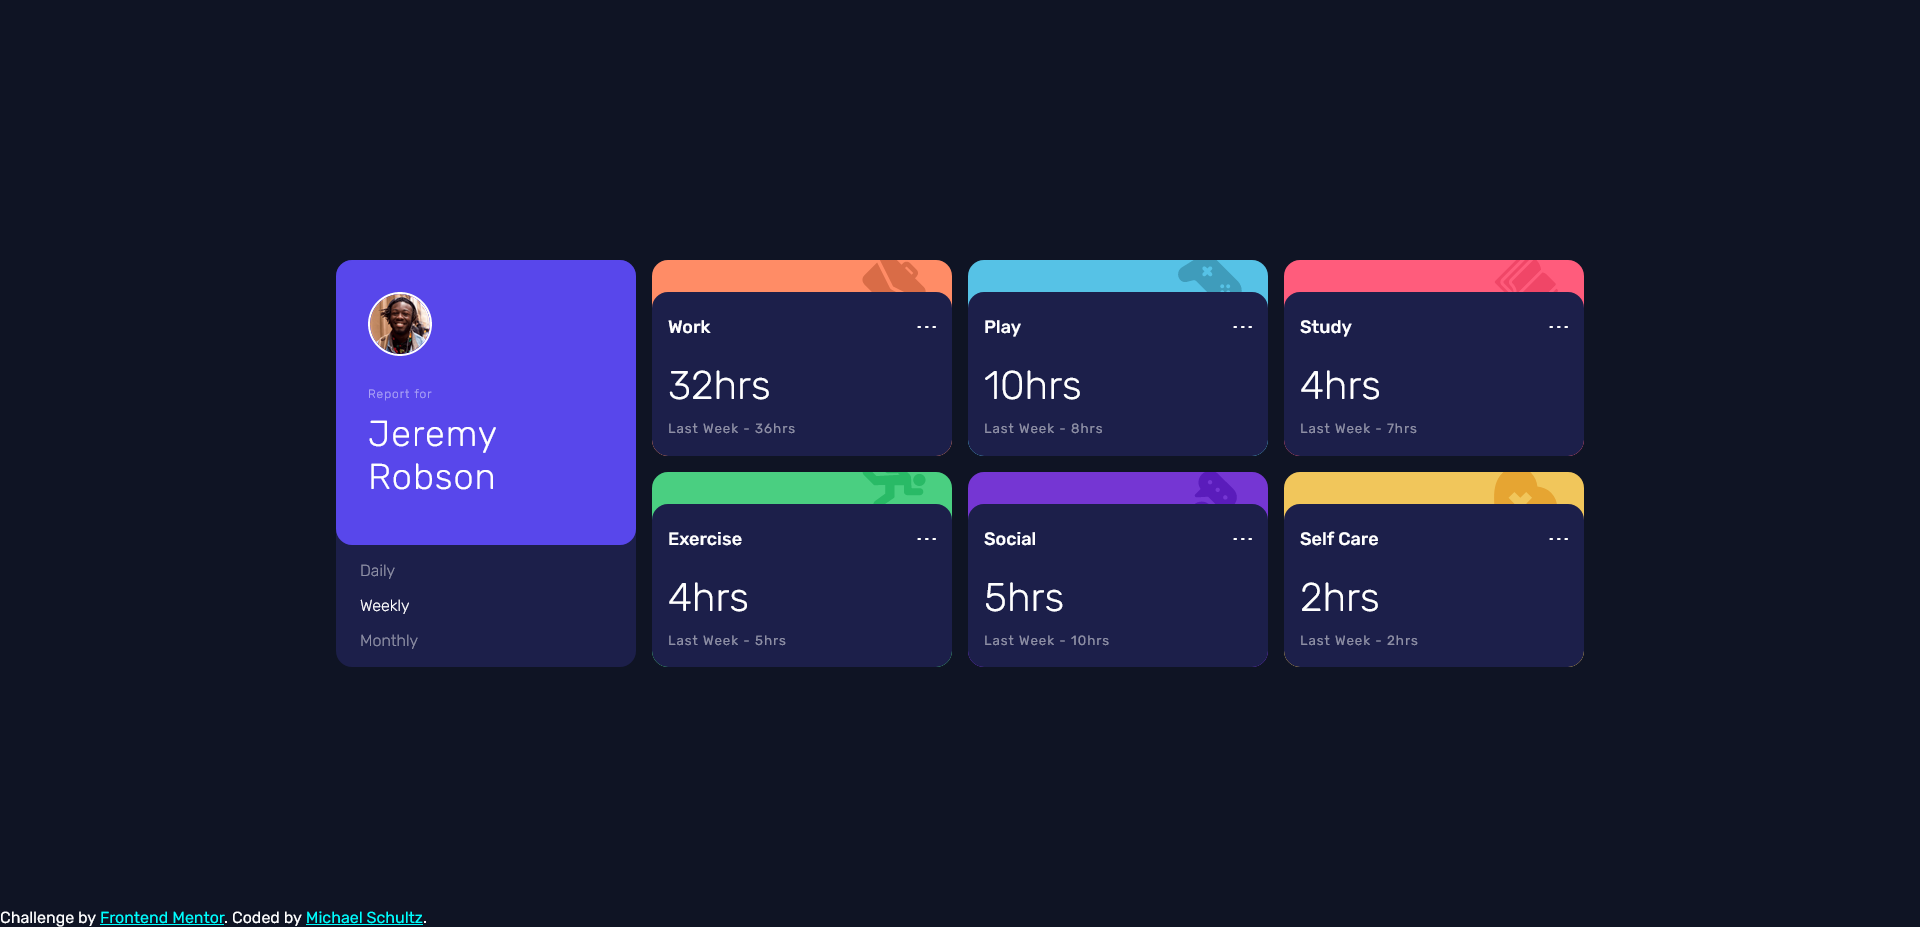
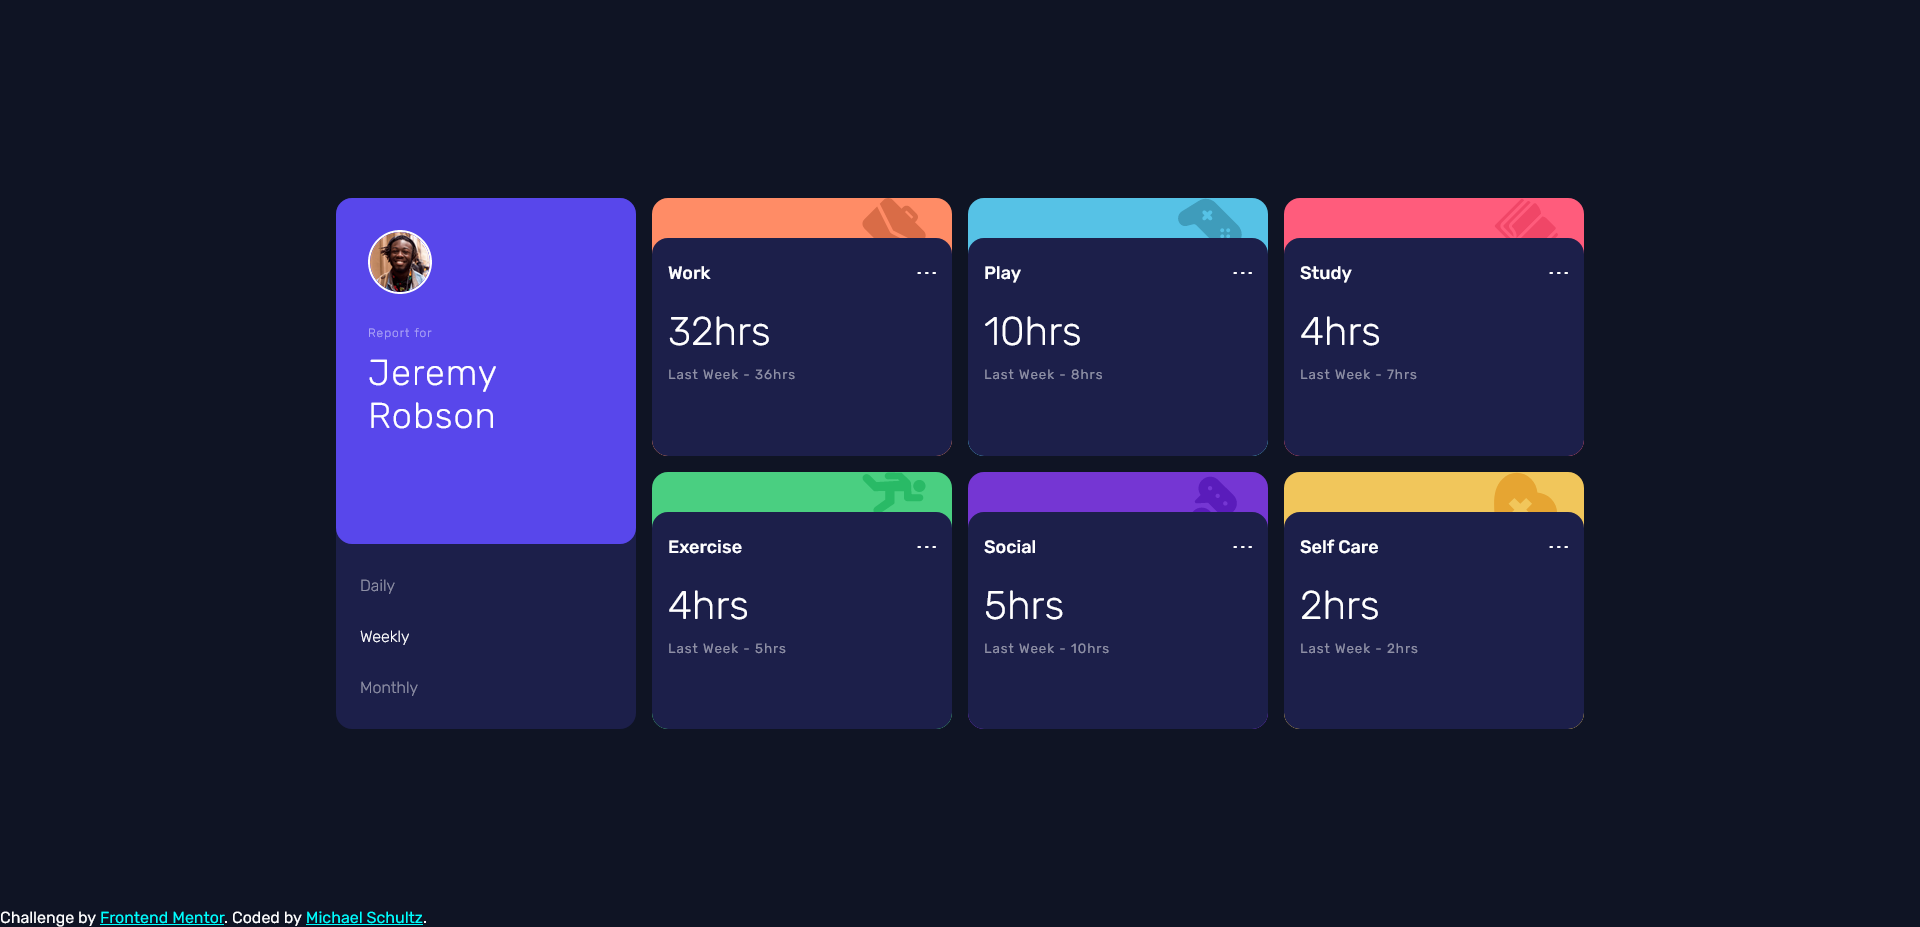
added live stie URL to readme and updated screenshot

diff --git a/README.md b/README.md
@@ -25,7 +25,7 @@ This is a solution to the [Time tracking dashboard challenge on Frontend Mentor]
 ### Links
 
 - Solution URL: [Add solution URL here](https://your-solution-url.com)
-- Live Site URL: [Add live site URL here](https://your-live-site-url.com)
+- Live Site URL: [Github Pages](https://ms097530.github.io/Frontend-mentor-dashboard/)
 
 ## My process
 
